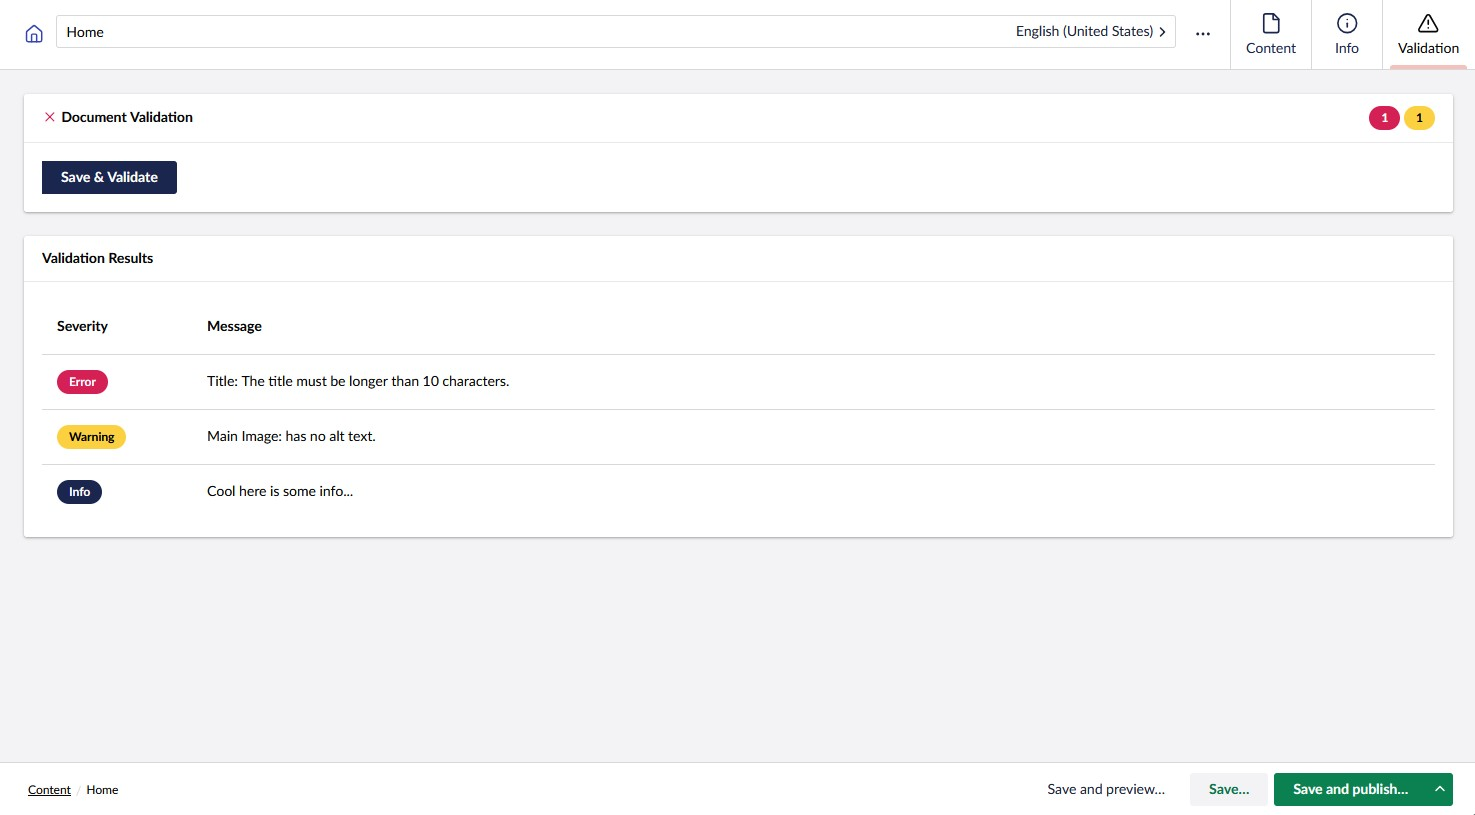
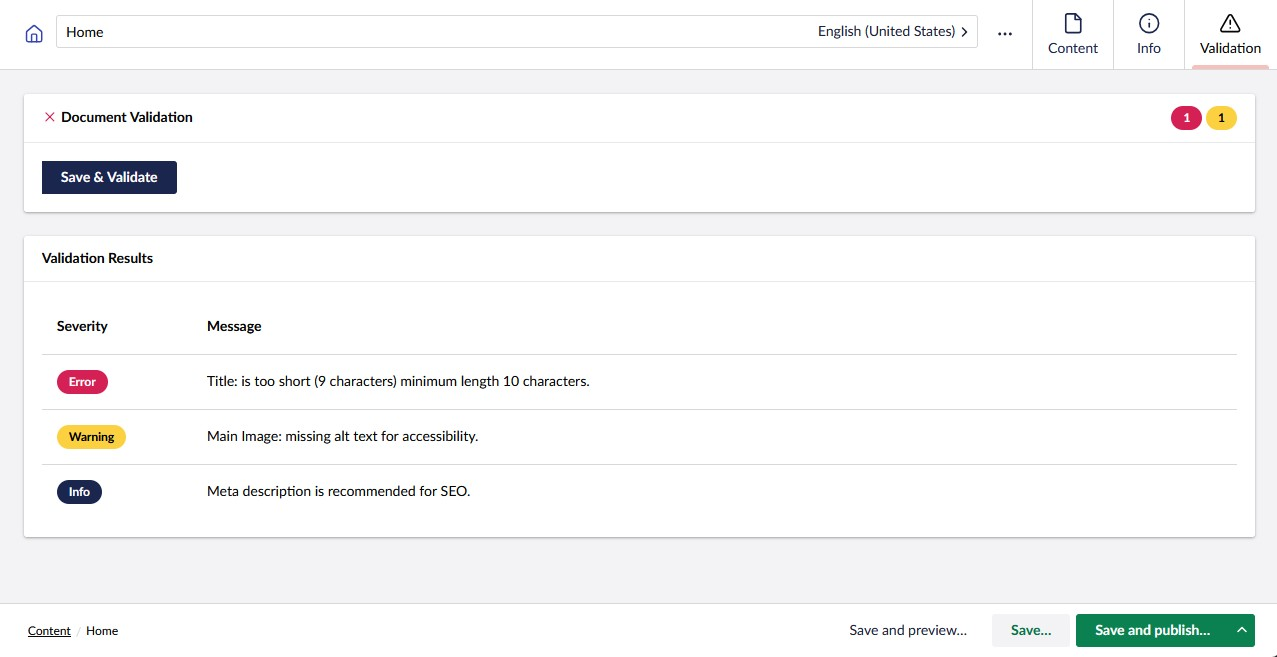
example/image update

diff --git a/src/Umbraco.Community.CustomValidator.TestSite/Validators/HomePageValidator.cs b/src/Umbraco.Community.CustomValidator.TestSite/Validators/HomePageValidator.cs
@@ -11,30 +11,32 @@ public class HomePageValidator() : BaseDocumentValidator<Home>
     {
         var messages = new List<ValidationMessage>();
 
-        if (string.IsNullOrWhiteSpace(content.Title) || content.Title.Length <= 10)
+       if (!string.IsNullOrWhiteSpace(content.Title) && content.Title.Length < 10)
         {
             messages.Add(new ValidationMessage
             {
-                Message = "Title: The title must be longer than 10 characters.",
+                Message = $"Title: is too short ({content.Title.Length} characters) minimum length 10 characters.",
                 Severity = ValidationSeverity.Error
             });
         }
 
-        if (content.MainImage?.Content is not Image { AltText.Length: > 0 })
+        if (content.MainImage?.Content is Image mainImage && string.IsNullOrWhiteSpace(mainImage.AltText))
         {
             messages.Add(new ValidationMessage
             {
-                Message = "Main Image: has no alt text.",
+                Message = "Main Image: missing alt text for accessibility.",
                 Severity = ValidationSeverity.Warning
             });
         }
 
-        // Example info message
-        messages.Add(new ValidationMessage
+        if (string.IsNullOrWhiteSpace(content.MetaDescription))
         {
-            Message = "Cool here is some info...",
-            Severity = ValidationSeverity.Info
-        });
+            messages.Add(new ValidationMessage
+            {
+                Message = "Meta description is recommended for SEO.",
+                Severity = ValidationSeverity.Info
+            });
+        }
 
         return Task.FromResult<IEnumerable<ValidationMessage>>(messages);
     }

diff --git a/.github/README.md b/.github/README.md
@@ -19,10 +19,10 @@ This package is a validation framework for Umbraco backoffice that provides real
 ## Screenshots
 
 ### Validation Tab
-![Validation tab showing error, warning, and info messages in the Umbraco backoffice](https://raw.githubusercontent.com/jawood1/Umbraco.Community.CustomValidator/main/docs/single-lang-view.jpg)
+![Validation tab showing error, warning, and info messages in the Umbraco backoffice](../docs/single-lang-view.jpg)
 
 ### Multi-Culture Split View
-![Multi-culture validation results displayed in split-view mode](https://raw.githubusercontent.com/jawood1/Umbraco.Community.CustomValidator/main/docs/split-lang-view.jpg)
+![Multi-culture validation results displayed in split-view mode](../docs/split-lang-view.jpg)
 
 ## Installation
 
